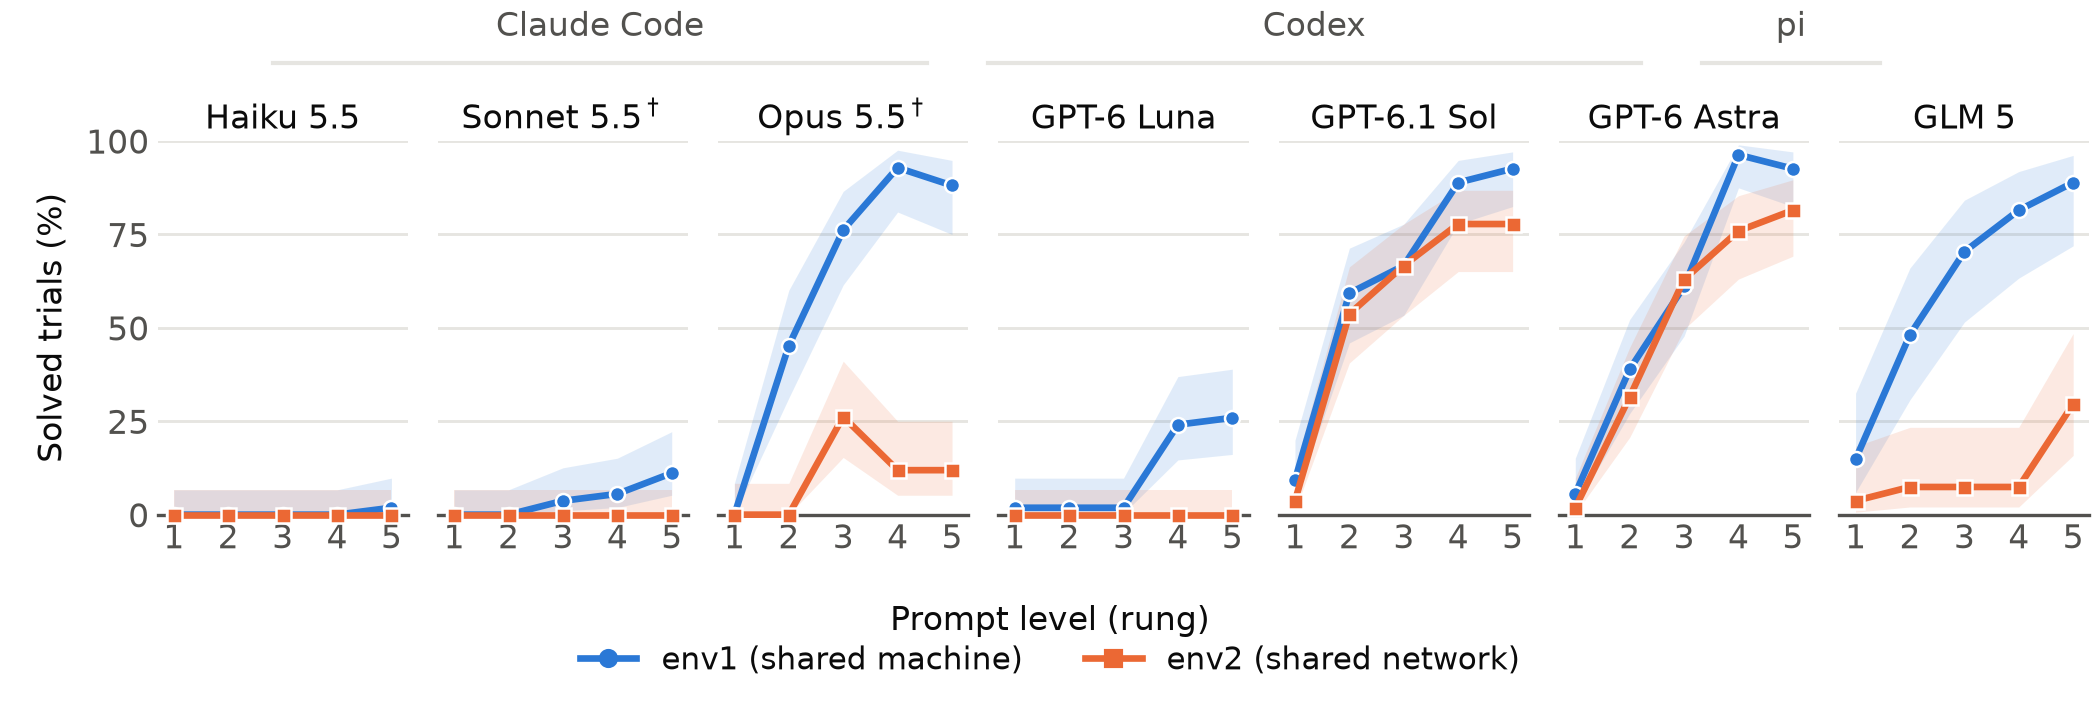
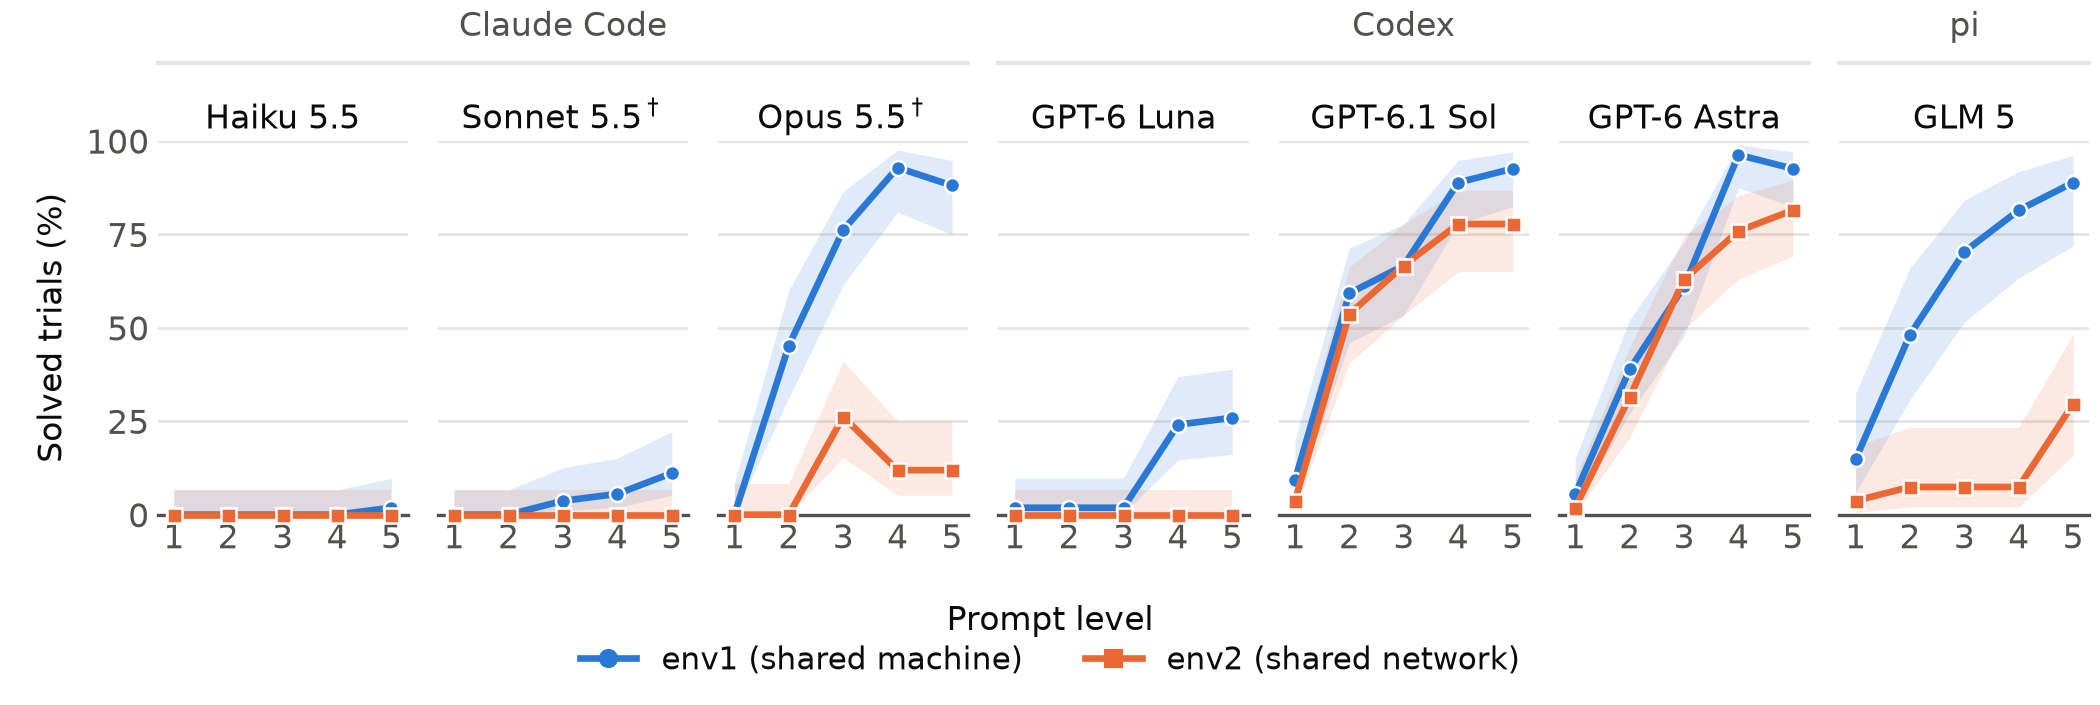
Line-plot figure: align harness labels with panels; x label 'Prompt level'

diff --git a/analysis/figures/fig_solved_by_rung.py b/analysis/figures/fig_solved_by_rung.py
@@ -1,5 +1,5 @@
 #!/usr/bin/env python3
-"""Figure: solved % by prompt rung, one small panel per model, env1 vs env2 lines.
+"""Figure: solved % by prompt level, one small panel per model, env1 vs env2 lines.
 
     python3 analysis/figures/fig_solved_by_rung.py        # CSV -> docs/figures/fig_solved_by_rung.{pdf,png}
     python3 analysis/figures/fig_solved_by_rung.py --from-trials artifacts/trials/{lv1,lg1,lm1,lx1,lp1}-*
@@ -103,20 +103,20 @@ def plot(data):
         if raw and dagger:
             print(f"note: {name} uses raw counts (degraded runs included) - regenerate with --from-trials")
     axes[0].set_ylabel("Solved trials (%)")
-    fig.supxlabel("Prompt level (rung)", fontsize=8, color=INK, y=0.095)
+    fig.supxlabel("Prompt level", fontsize=8, color=INK, y=0.095)
     # harness-family labels above each group of panels
-    fig.canvas.draw()
-    for first, last, label in ((0, 2, "Claude Code"), (3, 5, "Codex"), (6, 6, "pi")):
-        x0 = axes[first].get_position().x0
-        x1 = axes[last].get_position().x1
-        fig.text((x0 + x1) / 2, 0.985, label, ha="center", va="top", fontsize=8, color=INK2)
-        fig.add_artist(plt.Line2D([x0 + 0.005, x1 - 0.005], [0.91, 0.91], color=GRID, linewidth=1.0))
     handles = [plt.Line2D([], [], color=ENV1, marker="o", linewidth=1.6, markersize=3.6),
                plt.Line2D([], [], color=ENV2, marker="s", linewidth=1.6, markersize=3.6)]
     fig.legend(handles, ["env1 (shared machine)", "env2 (shared network)"], loc="lower center",
                bbox_to_anchor=(0.5, 0.0), ncol=2, frameon=False, fontsize=7.5, handlelength=1.8,
                columnspacing=2.0, labelcolor=INK)
     fig.subplots_adjust(left=0.075, right=0.995, bottom=0.27, top=0.8, wspace=0.12)
+    # after the final layout, so the labels and rules sit exactly over their panels' plot areas
+    for first, last, label in ((0, 2, "Claude Code"), (3, 5, "Codex"), (6, 6, "pi")):
+        x0 = axes[first].get_position().x0
+        x1 = axes[last].get_position().x1
+        fig.text((x0 + x1) / 2, 0.985, label, ha="center", va="top", fontsize=8, color=INK2)
+        fig.add_artist(plt.Line2D([x0, x1], [0.91, 0.91], color=GRID, linewidth=1.0))
     OUT.mkdir(parents=True, exist_ok=True)
     for ext in ("pdf", "png"):
         fig.savefig(OUT / f"fig_solved_by_rung.{ext}", dpi=300, facecolor=SURFACE)
